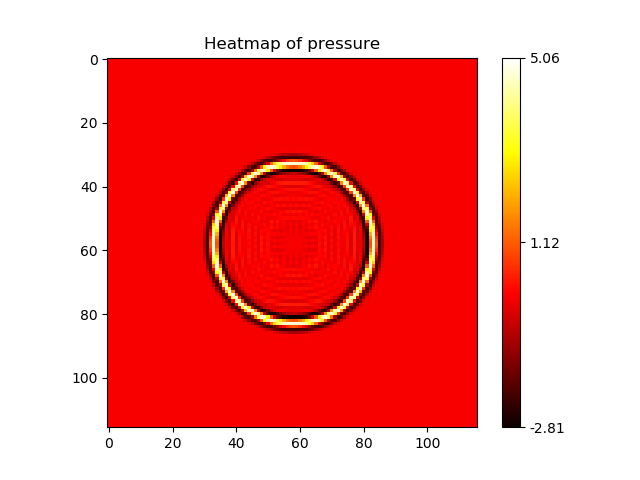
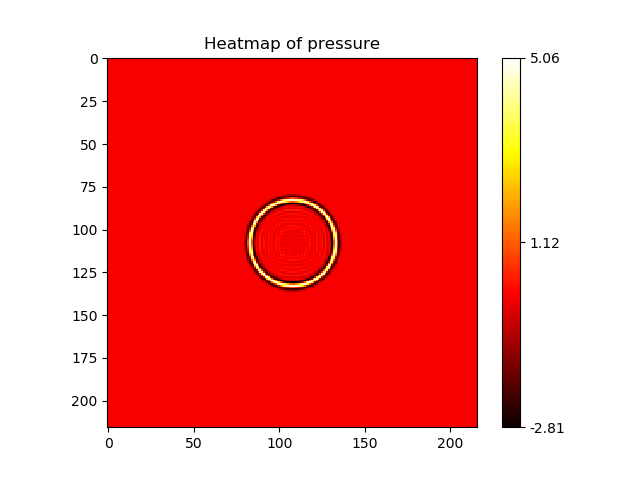
Manual laplacian calculation, without stencil decorator

diff --git a/stenciltest.py b/stenciltest.py
@@ -1,14 +1,20 @@
 from numba import stencil, jit
+from numba import njit, prange
+import numba
 import numpy as np
 from matplotlib import pyplot
+
 
 vel = 3000.0
 f0 = 15
 nt = 200
 dt = .002
-nx = 100
-ny = 100
-nz = 100
+nx = 200
+ny = 200
+nz = 200
+#nx = 50
+#ny = 50
+#nz = 50
 h = vel/(f0*5.0)
 x_idx = nx//2
 y_idx = ny//2
@@ -23,8 +29,9 @@ coeff = [-3.0548446, 1.777777, -3.1111111/10, 7.572087/100, -1.767676/100, 3.480
 
 
 
-#@jit(nopython=True, parallel=True)
 @stencil(neighborhood = ((-radius, radius), (-radius, radius), (-radius, radius),), standard_indexing=("coeff",) )
+#@jit(nopython=True, parallel=True)
+#@numba.njit(parallel=True)
 def laplace(a, coeff):
 #def laplace(a):
 	laplace = coeff[0]*a[0, 0, 0]*3
@@ -33,11 +40,22 @@ def laplace(a, coeff):
 	return laplace
 
 
-#add in later
-@stencil
-def timestep(a, b):
-	return 0
-
+@numba.njit(parallel=True)
+def laplace_manual_stencil(a, coeff):
+#def laplace(a):
+	laplace = np.zeros((nx+2*radius)*(ny+2*radius)*(nz+2*radius)).reshape((nx+2*radius, ny+2*radius, nz+2*radius))
+	for x in prange(radius, nx-radius):
+		#print("one x laplacian done")
+		for y in prange(radius, ny-radius):
+			#print("one x, y laplacian done")
+			for z in prange(radius, nz-radius):
+				#print("one x, y, z laplacian done")
+				laplace[x, y, z] = coeff[0]*a[x, y, z]*3
+				for i in range(1, radius+1):
+					laplace[x, y, z] += coeff[i]*((a[x, y, z-i] + a[x, y, z+i])
+							 + (a[x, y-i, z] + a[x, y+i, z]) 
+							 + (a[x-i, y, z] + a[x+i, y, z]))
+	return laplace
 
 
 
@@ -55,24 +73,29 @@ for i in range(nt):
 
 prev_timestep = np.zeros((nx+2*radius)*(ny+2*radius)*(nz+2*radius)).reshape((nx+2*radius, ny+2*radius, nz+2*radius))
 curr_timestep = np.zeros((nx+2*radius)*(ny+2*radius)*(nz+2*radius)).reshape((nx+2*radius, ny+2*radius, nz+2*radius))
+next_timestep = np.zeros((nx+2*radius)*(ny+2*radius)*(nz+2*radius)).reshape((nx+2*radius, ny+2*radius, nz+2*radius))
 curr_timestep[x_idx+radius, y_idx+radius, z_idx+radius] += source[0]*(vel*dt)**2
 
 #laplace_arr = laplace(curr_timestep, coeff)
 #print laplace_arr
 
+#@njit(parallel=True)
 
 
+#@numba.njit(parallel=True)
+def time_step(next_timestep, curr_timestep, prev_timestep, nt):
+	for i in prange(1, nt): 
+		next_timestep = 2*curr_timestep - prev_timestep + laplace(curr_timestep, coeff)*((dt*vel/h)**2) 
+		#next_timestep = 2*curr_timestep - prev_timestep + laplace_manual_stencil(curr_timestep, coeff)*((dt*vel/h)**2) 
+		next_timestep[x_idx+radius, y_idx+radius, z_idx+radius] += source[i]*(vel*dt)**2
+		prev_timestep = curr_timestep
+		curr_timestep = next_timestep
+		#print(next_timestep[x_idx+radius, y_idx+radius, z_idx+radius])
 
-for i in range(1, nt): 
-	
-	#@jit(nopython=True, paralleli=True)
-	next_timestep = 2*curr_timestep - prev_timestep + laplace(curr_timestep, coeff)*((dt*vel/h)**2) 
-	next_timestep[x_idx+radius, y_idx+radius, z_idx+radius] += source[i]*(vel*dt)**2
-	prev_timestep = curr_timestep
-	curr_timestep = next_timestep
-	
-	print next_timestep[x_idx+radius, y_idx+radius, z_idx+radius]
+		#print(laplace(next_timestep, coeff)[x_idx+radius, y_idx+radius, z_idx+radius])
+	return next_timestep
 
+next_timestep = time_step(next_timestep, curr_timestep, prev_timestep, nt)
 
 fig, ax = pyplot.subplots()
 next_timestep = (next_timestep[:, :, z_idx + radius]) 
